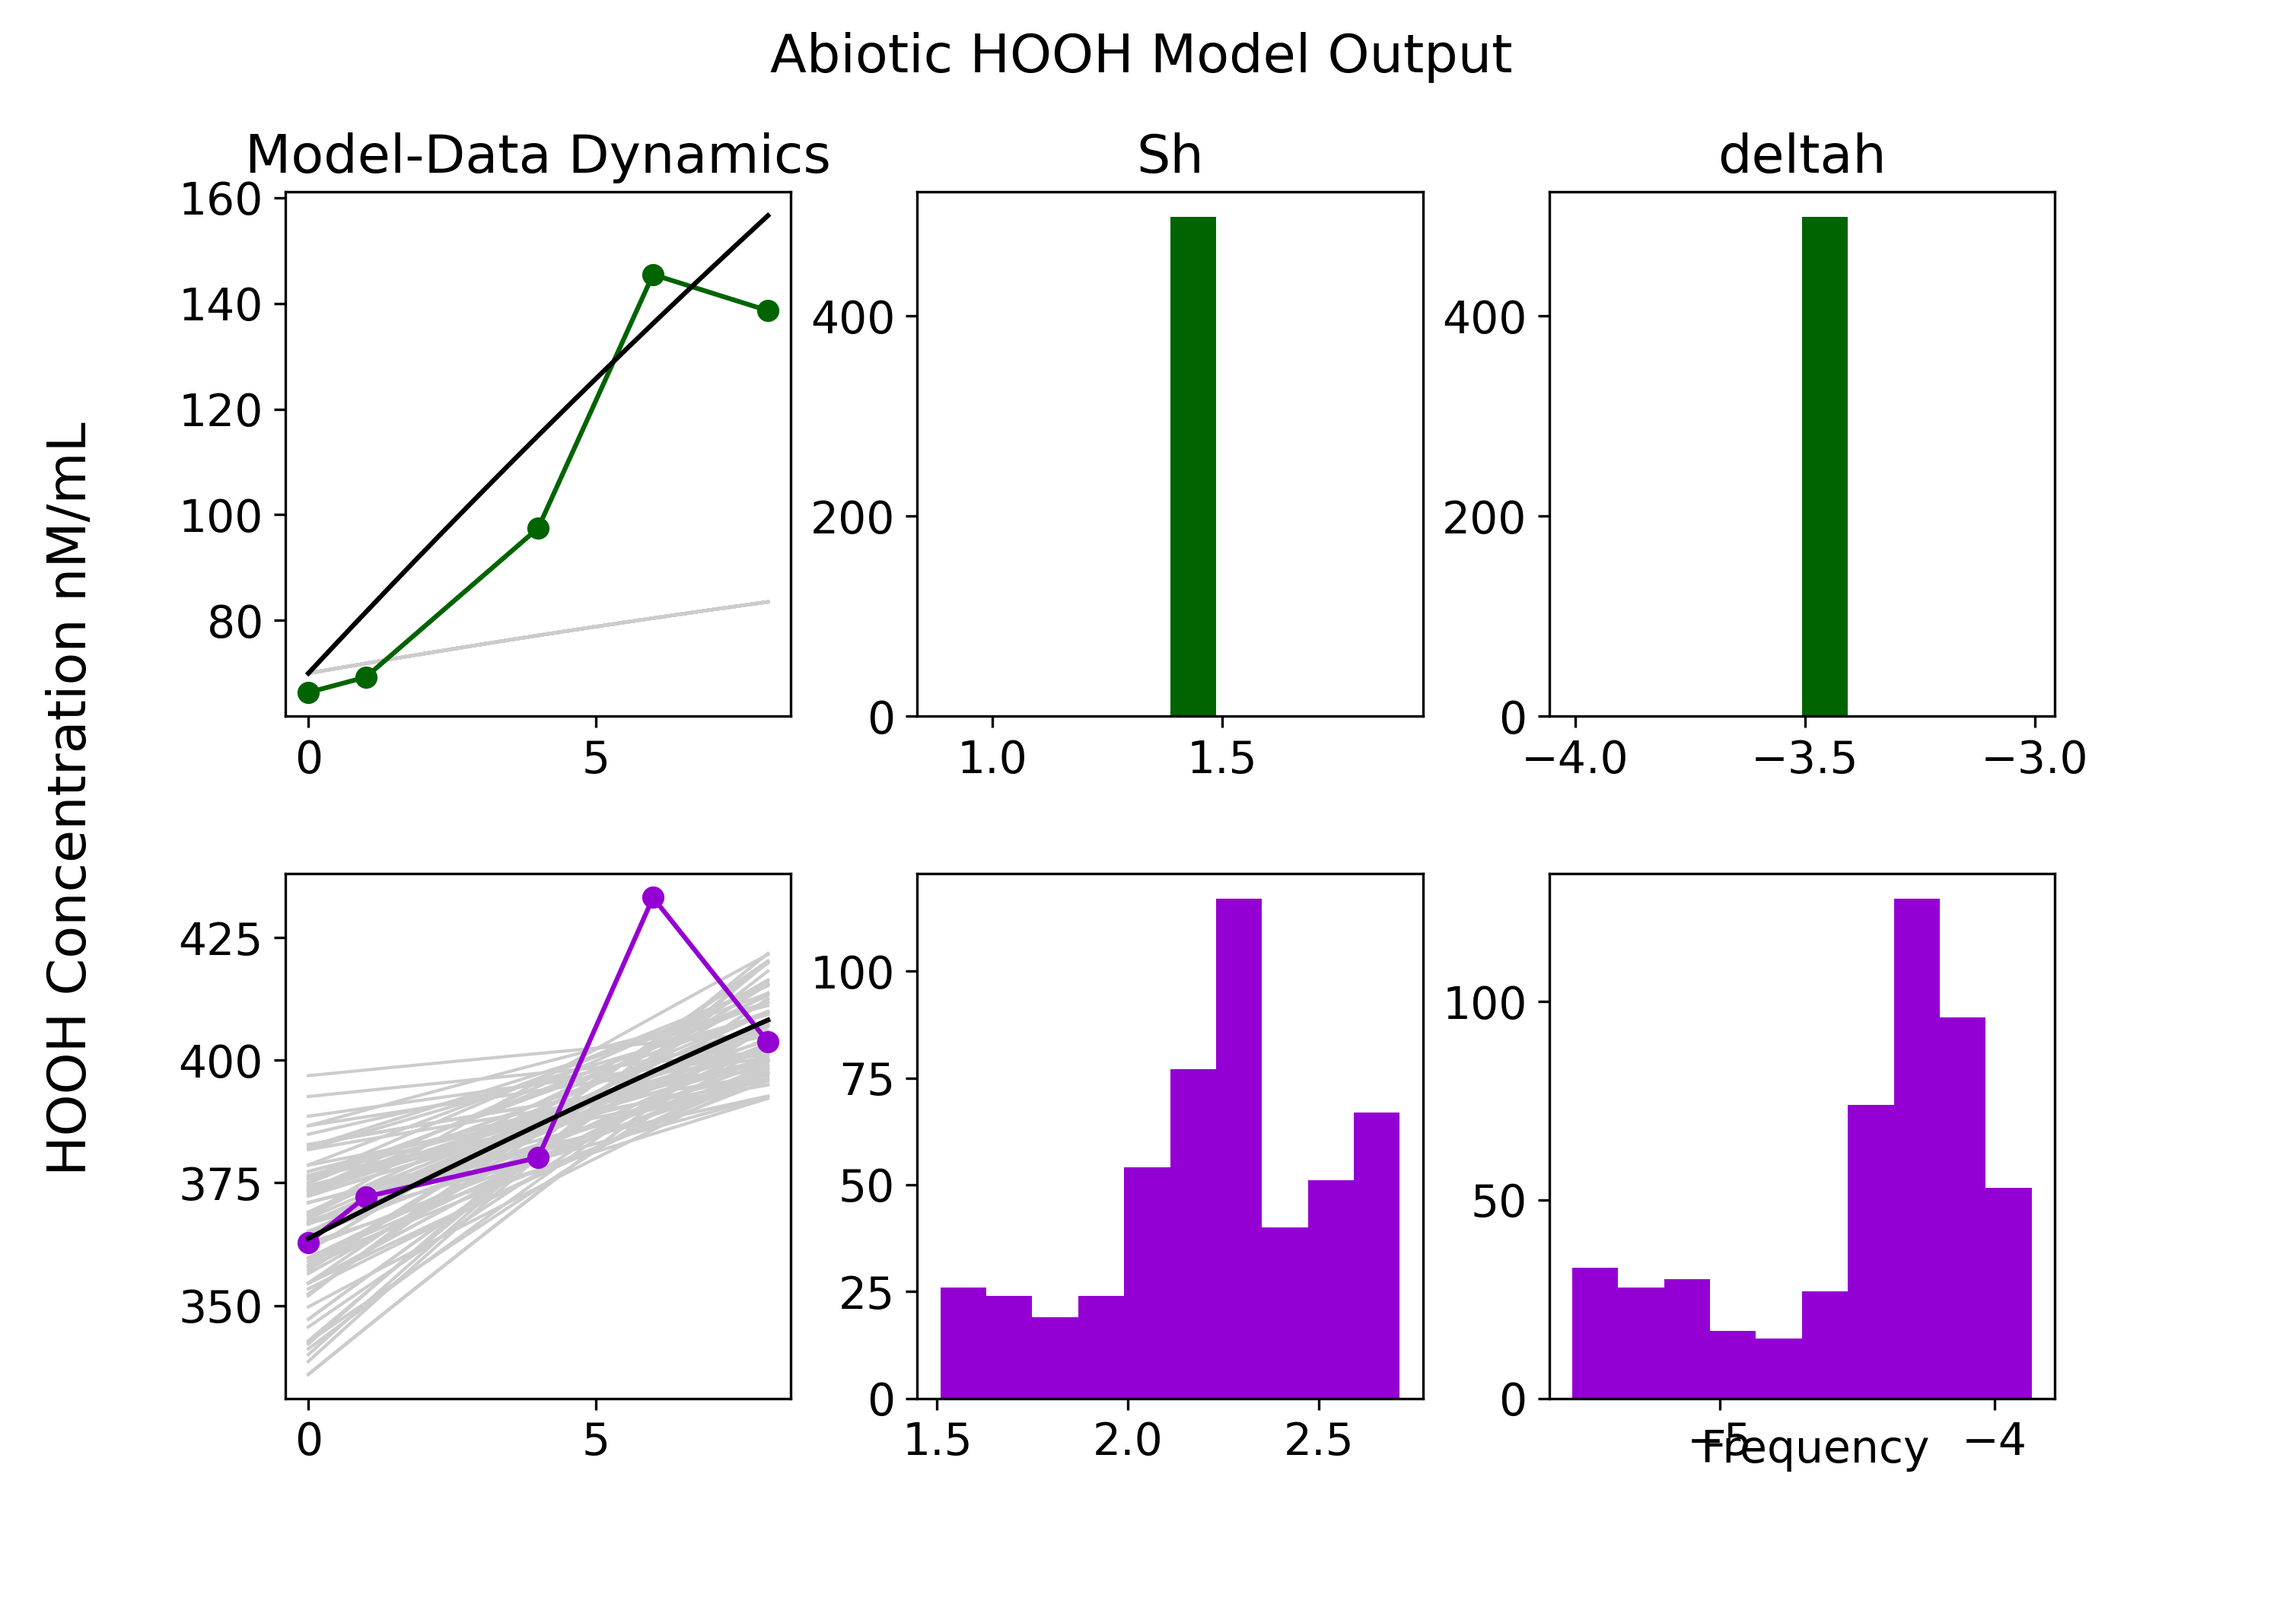
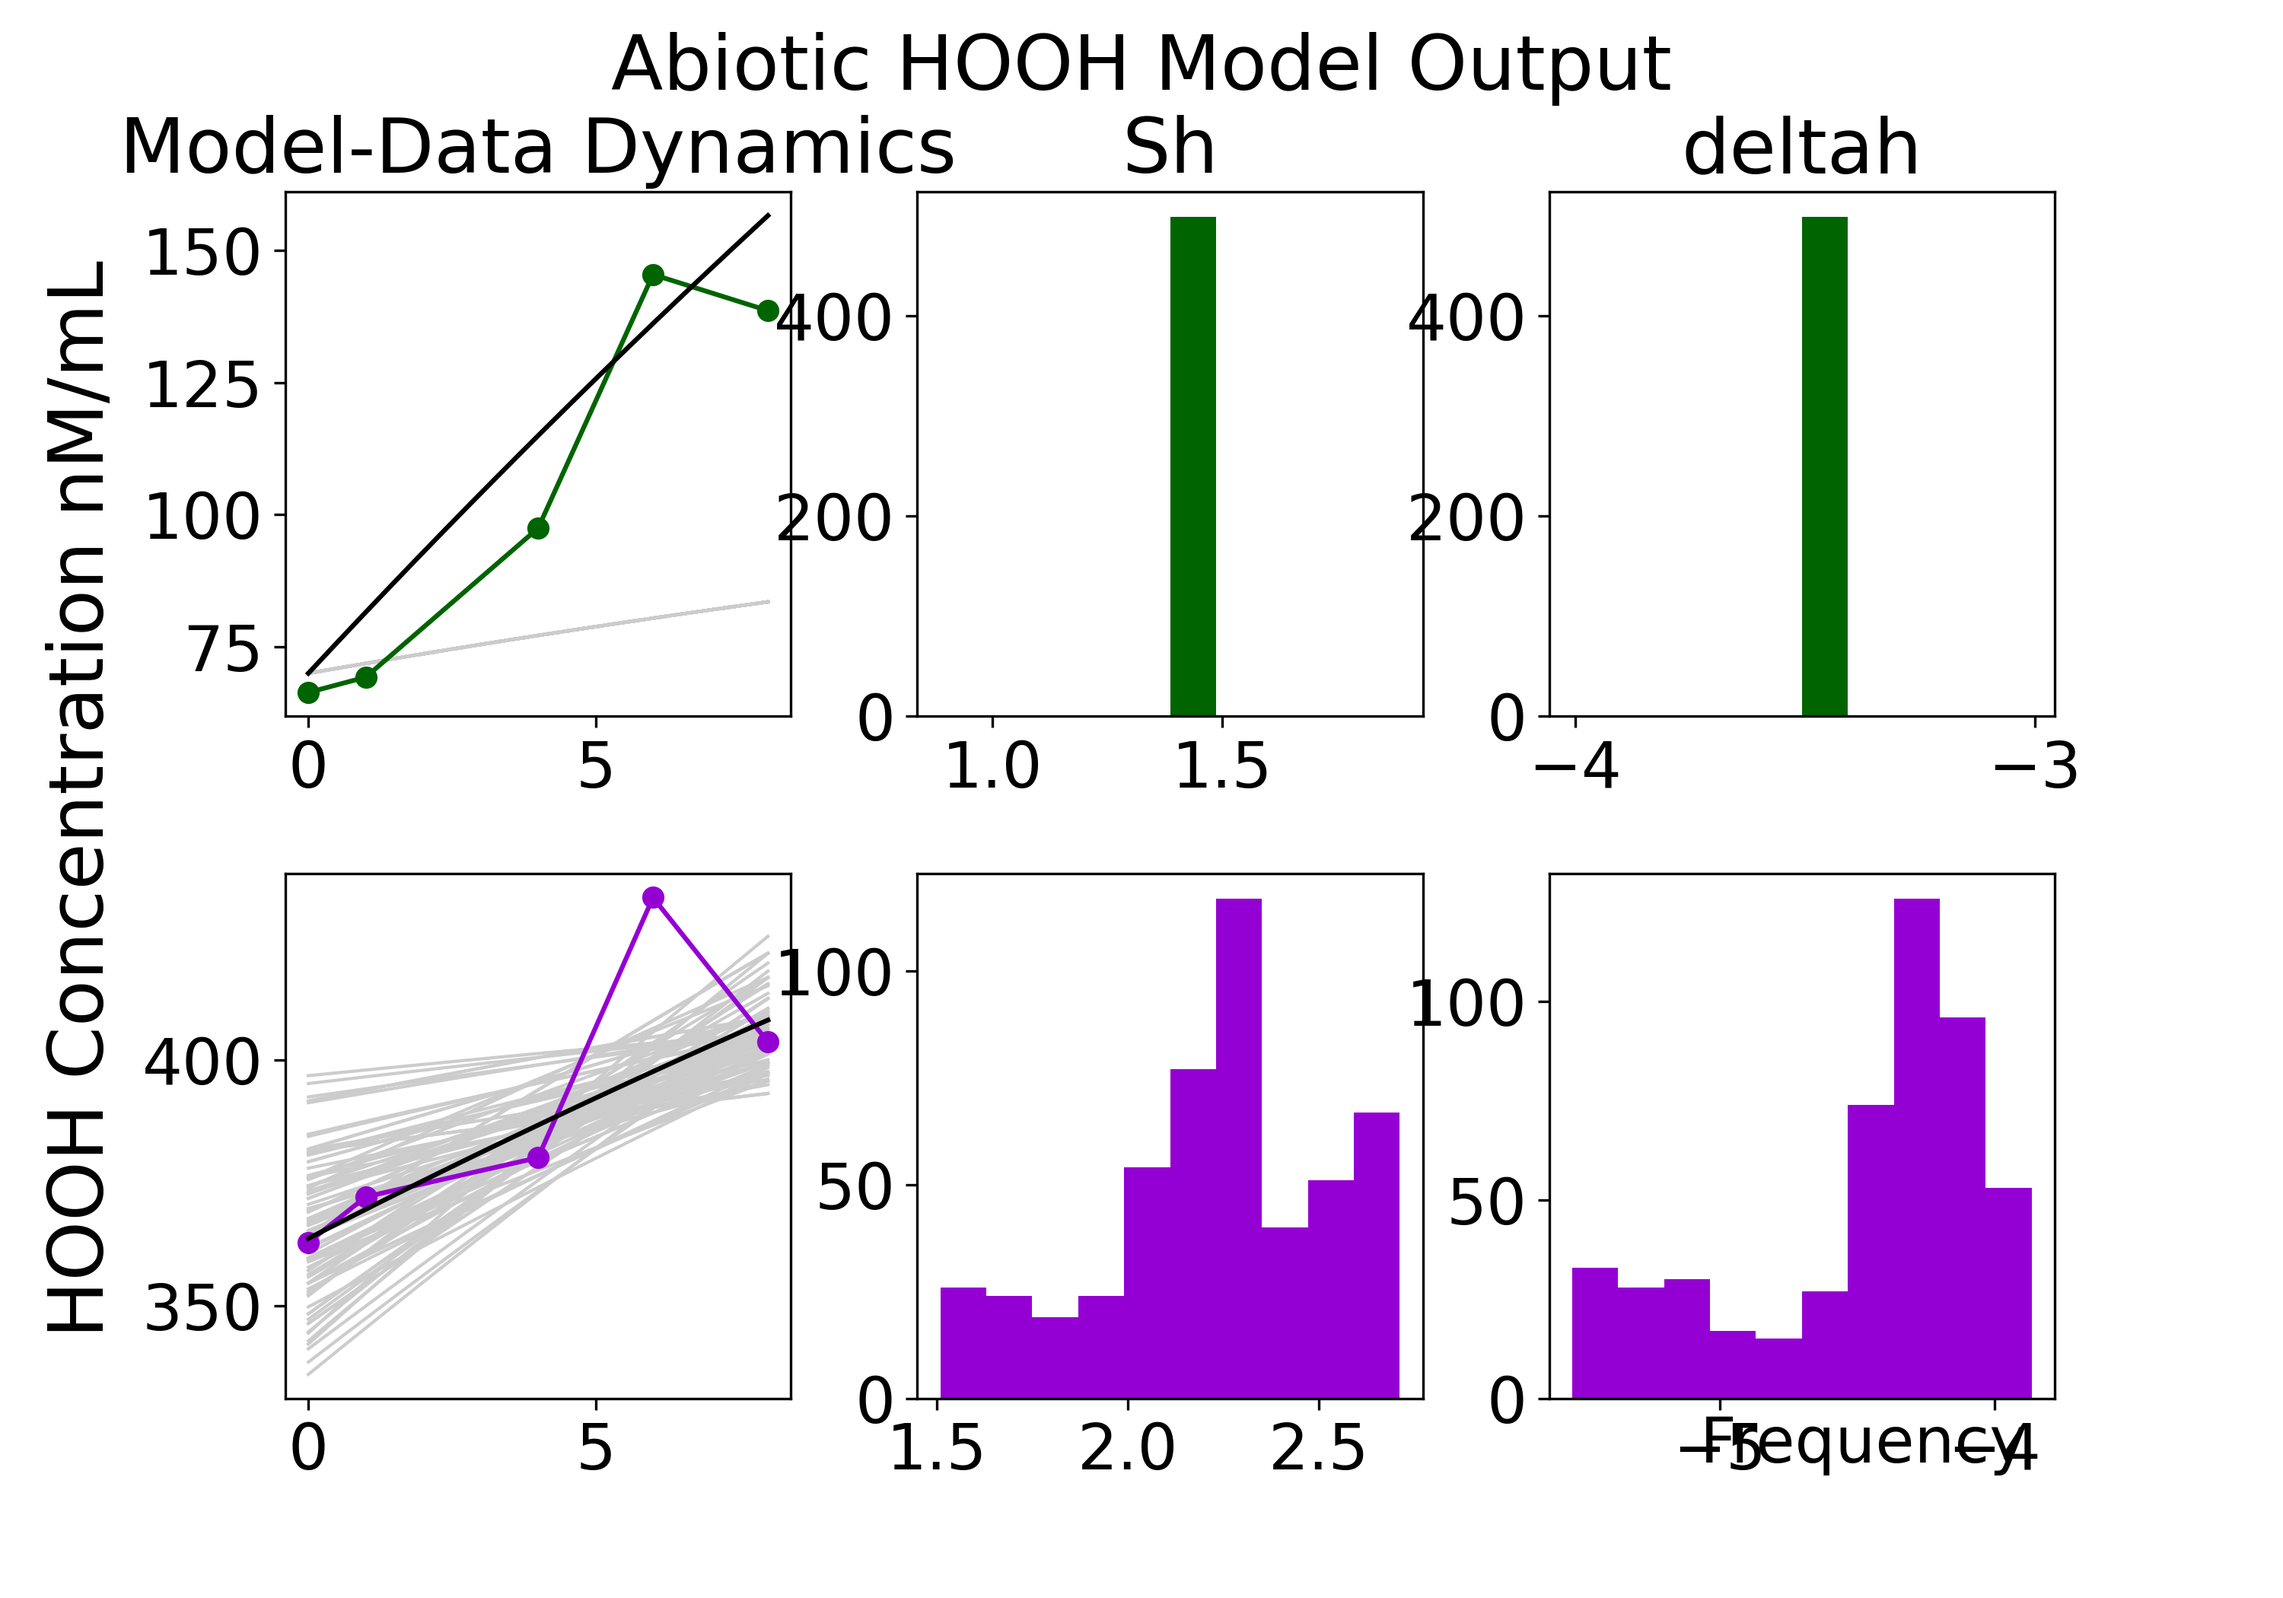
eod

diff --git a/src/model_pro_batch.py b/src/model_pro_batch.py
@@ -3,8 +3,8 @@
 
 name:   model_pro_batch.py 
 
-location: '/Users/dkm/Documents/Talmy_research/Zinser_lab/Projects/Monocultures/src'
-
+location: '/Users/dkm/Documents/Talmy_research/Zinser_lab/Projects/ROS_focused/HOOH_dynamics/src'
+    
 author: DKM
 
 goal: Loop model and graph 0 H Pro assay and model of said biomass via odelib
@@ -103,7 +103,7 @@ ax0.errorbar(df0['time'],df0['avg2'],yerr=df0['std2'], marker='v', label = 'avg2
 ax1.errorbar(df4['time'],df4['abundance'],yerr=df4['std1'], marker='o', label = 'avg1')
 ax1.errorbar(df4['time'],df4['avg2'],yerr=df4['std2'], marker='v', label = 'avg2')
 
-
+plt.legend()
 
 #####################################################
 #   model param and state variable set up 
@@ -114,7 +114,7 @@ ax1.errorbar(df4['time'],df4['avg2'],yerr=df4['std2'], marker='v', label = 'avg2
 inits0 = pd.read_csv("../data/inits/pro9215_inits0.csv")
 
 #setting how many MCMC chains you will run 
-nits = 1000 # nits - INCREASE FOR MORE BELL CURVEY LOOKING HISTS of params
+nits = 10000 # nits - INCREASE FOR MORE BELL CURVEY LOOKING HISTS of params
 
 
 # state variable names
@@ -136,9 +136,9 @@ SN_prior=ODElib.parameter(stats_gen=scipy.stats.lognorm, hyperparameters={'s':pw
 deltah_prior=ODElib.parameter(stats_gen=scipy.stats.lognorm,hyperparameters={'s':pw,'scale':0.02})
 Sh_prior=ODElib.parameter(stats_gen=scipy.stats.lognorm, hyperparameters={'s':pw,'scale':1})
 #setting state variiable  prior guess
-P0_prior=ODElib.parameter(stats_gen=scipy.stats.lognorm, hyperparameters={'s':pw/10,'scale':1e+6})
-N0_prior=ODElib.parameter(stats_gen=scipy.stats.lognorm, hyperparameters={'s':pw/10,'scale':1e+5})
-H0_prior=ODElib.parameter(stats_gen=scipy.stats.lognorm, hyperparameters={'s':pw/10,'scale':1e+5})
+P0_prior=ODElib.parameter(stats_gen=scipy.stats.lognorm, hyperparameters={'s':pw/1,'scale':1e+6})
+N0_prior=ODElib.parameter(stats_gen=scipy.stats.lognorm, hyperparameters={'s':pw/1,'scale':1e+5})
+H0_prior=ODElib.parameter(stats_gen=scipy.stats.lognorm, hyperparameters={'s':pw/1,'scale':1e+5})
 #pw/10 for state variable initial conditions (P0, H0, N0) bc we theoretically have a better handle on thier values. (not completely holding constant like Qnp but not as loose as params either)
 
 
@@ -254,6 +254,7 @@ ax0.errorbar(df0['time'],df0['avg2'],yerr=df0['std2'], marker='o', label = 'avg2
 
 ax0.plot(mod0.time,mod0['P'],c='r',lw=1.5,label=' model best fit')
 plot_uncertainty(ax0,a0,posteriors0,100)
+
 
 #printing off graph
 plt.show()
